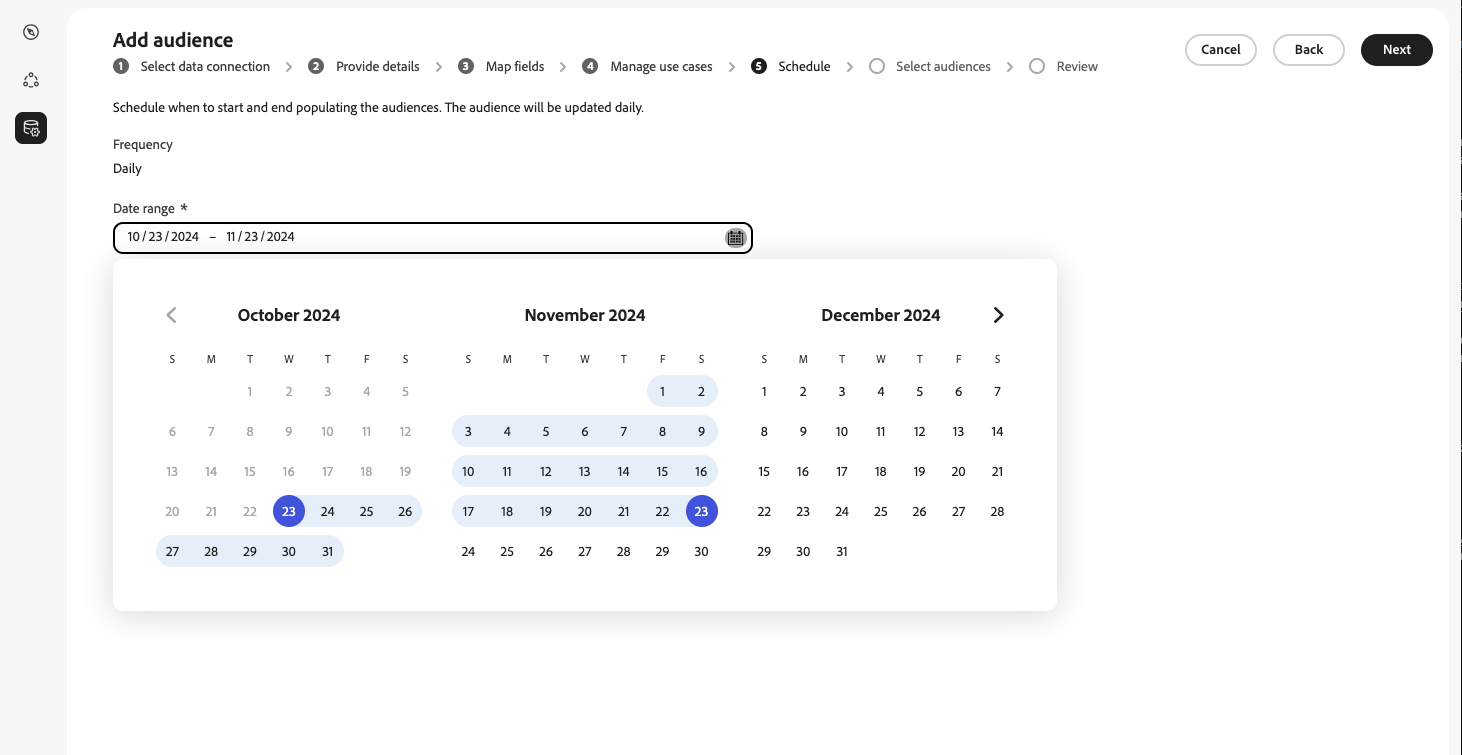
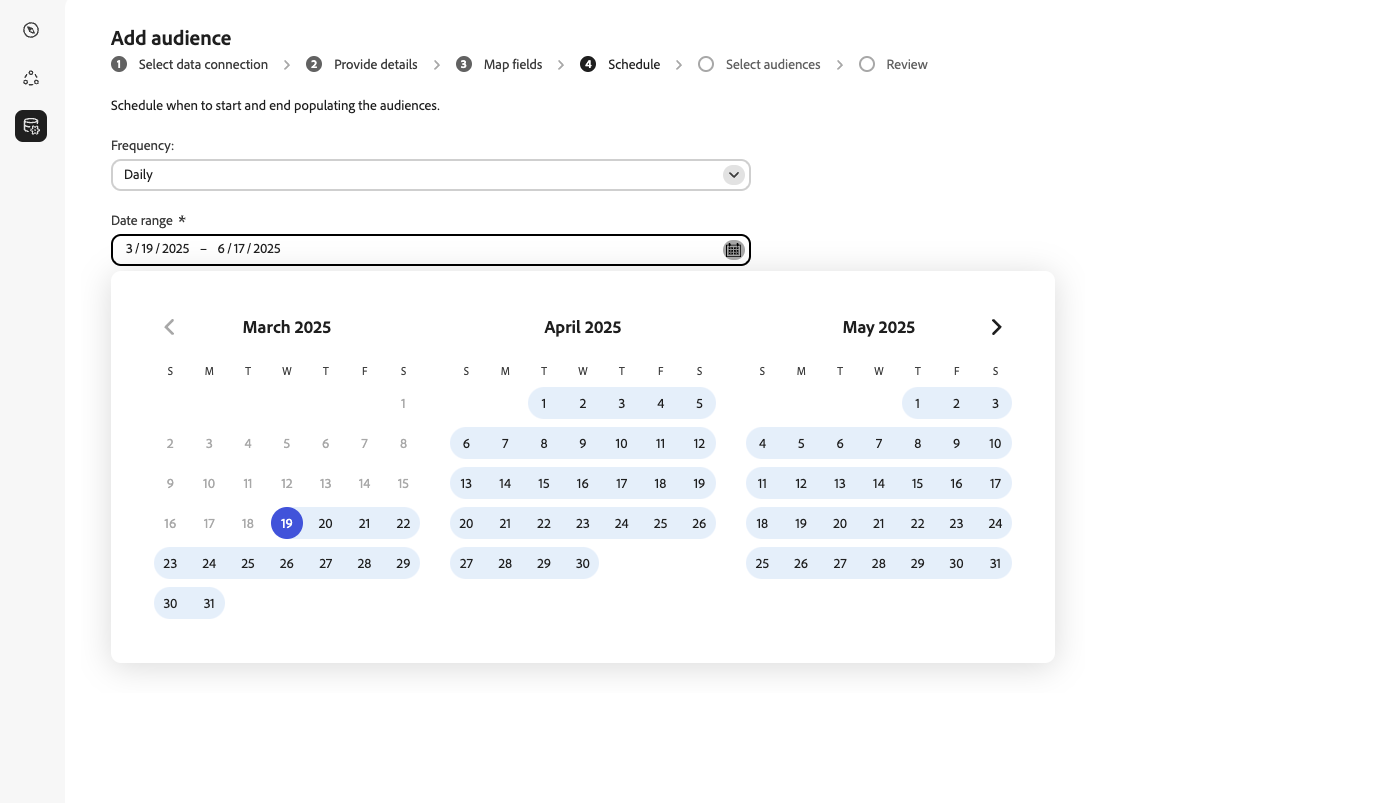
Add flexible audience membership option

diff --git a/help/guide/setup/onboard-audiences.md b/help/guide/setup/onboard-audiences.md
@@ -209,13 +209,17 @@ After selecting the desired use cases for each identity, proceed to the next ste
 
 ### Schedule {#schedule}
 
-Schedule when to start and end populating the audiences. The audience membership will be refreshed according to this schedule. For the first release of Real-Time CDP Collaboration, a daily audience import is the only available option.
+Schedule when to start and end populating and refreshing the audiences. The audience membership will be refreshed according to this schedule. 
+
+![Schedule screen showing start and end dates for populating the audiences.](/help/assets/setup/add-manage-audiences/Step-Schedule.png)
+
+Select the refresh rate for the audiences. Available options are between one and six-day refresh rates.
+
+![Schedule screen showing different frequency intervals for updating audience membership.](/help/assets/setup/add-manage-audiences/Step-Schedule-Set-Frequency.png)
 
 >[!IMPORTANT]
 >
 >After the end date in the date range, all audiences imported from this data connection will stop refreshing. To renew the connection, go to [Manage data connection](/help/guide/setup/manage-data-connection.md), and set a new end date.
-
-![Schedule screen showing start and end dates for populating the audiences.](/help/assets/setup/add-manage-audiences/Step-Schedule.png)
 
 ### Select audiences {#select-audience}
 
